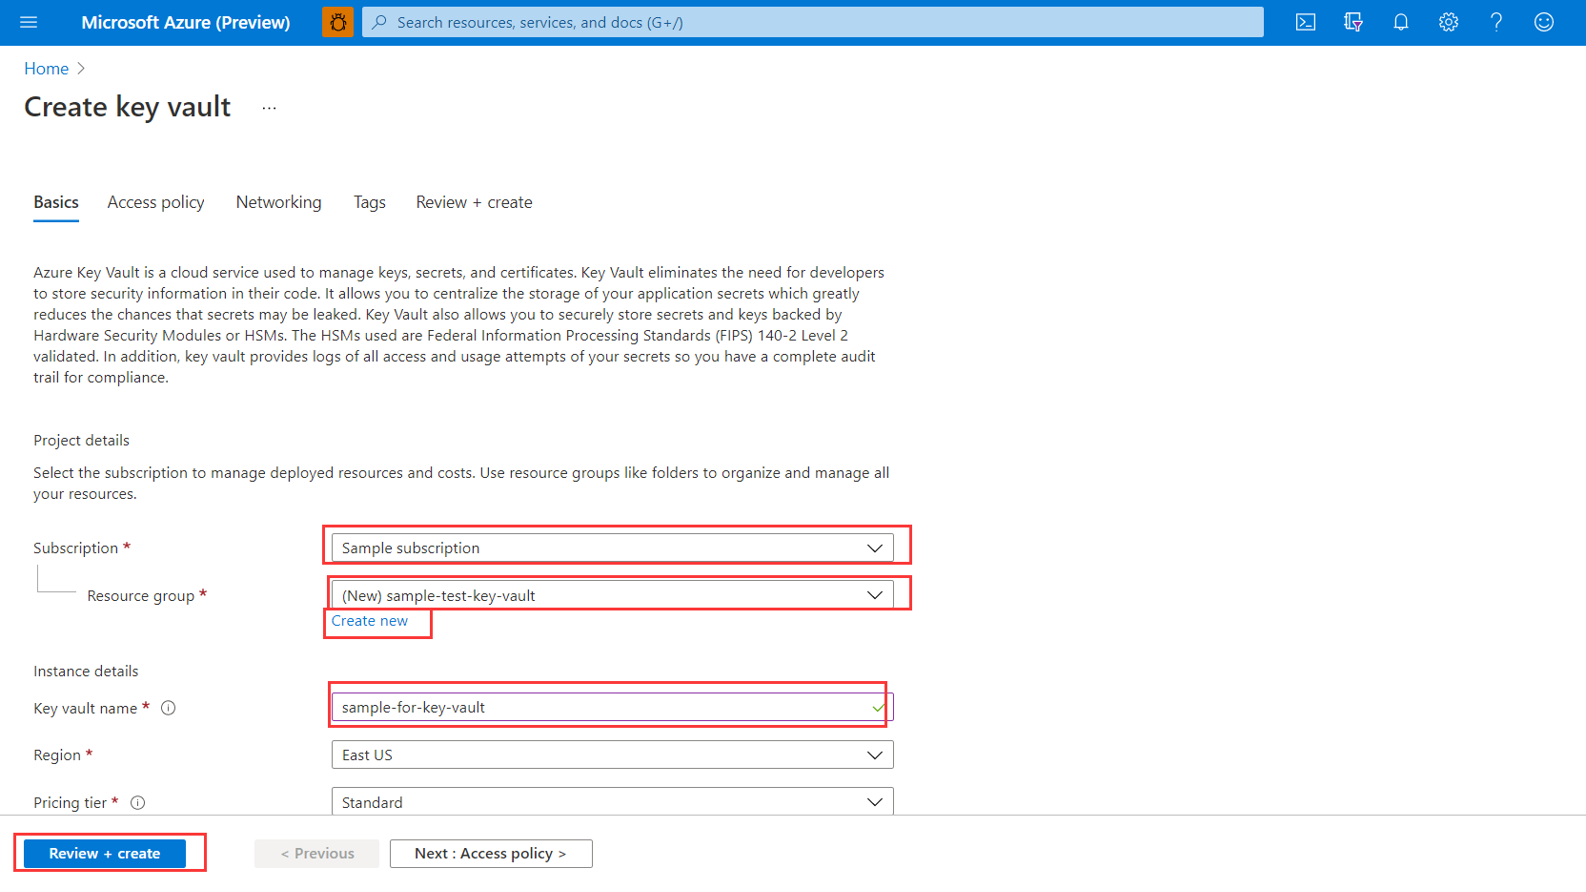
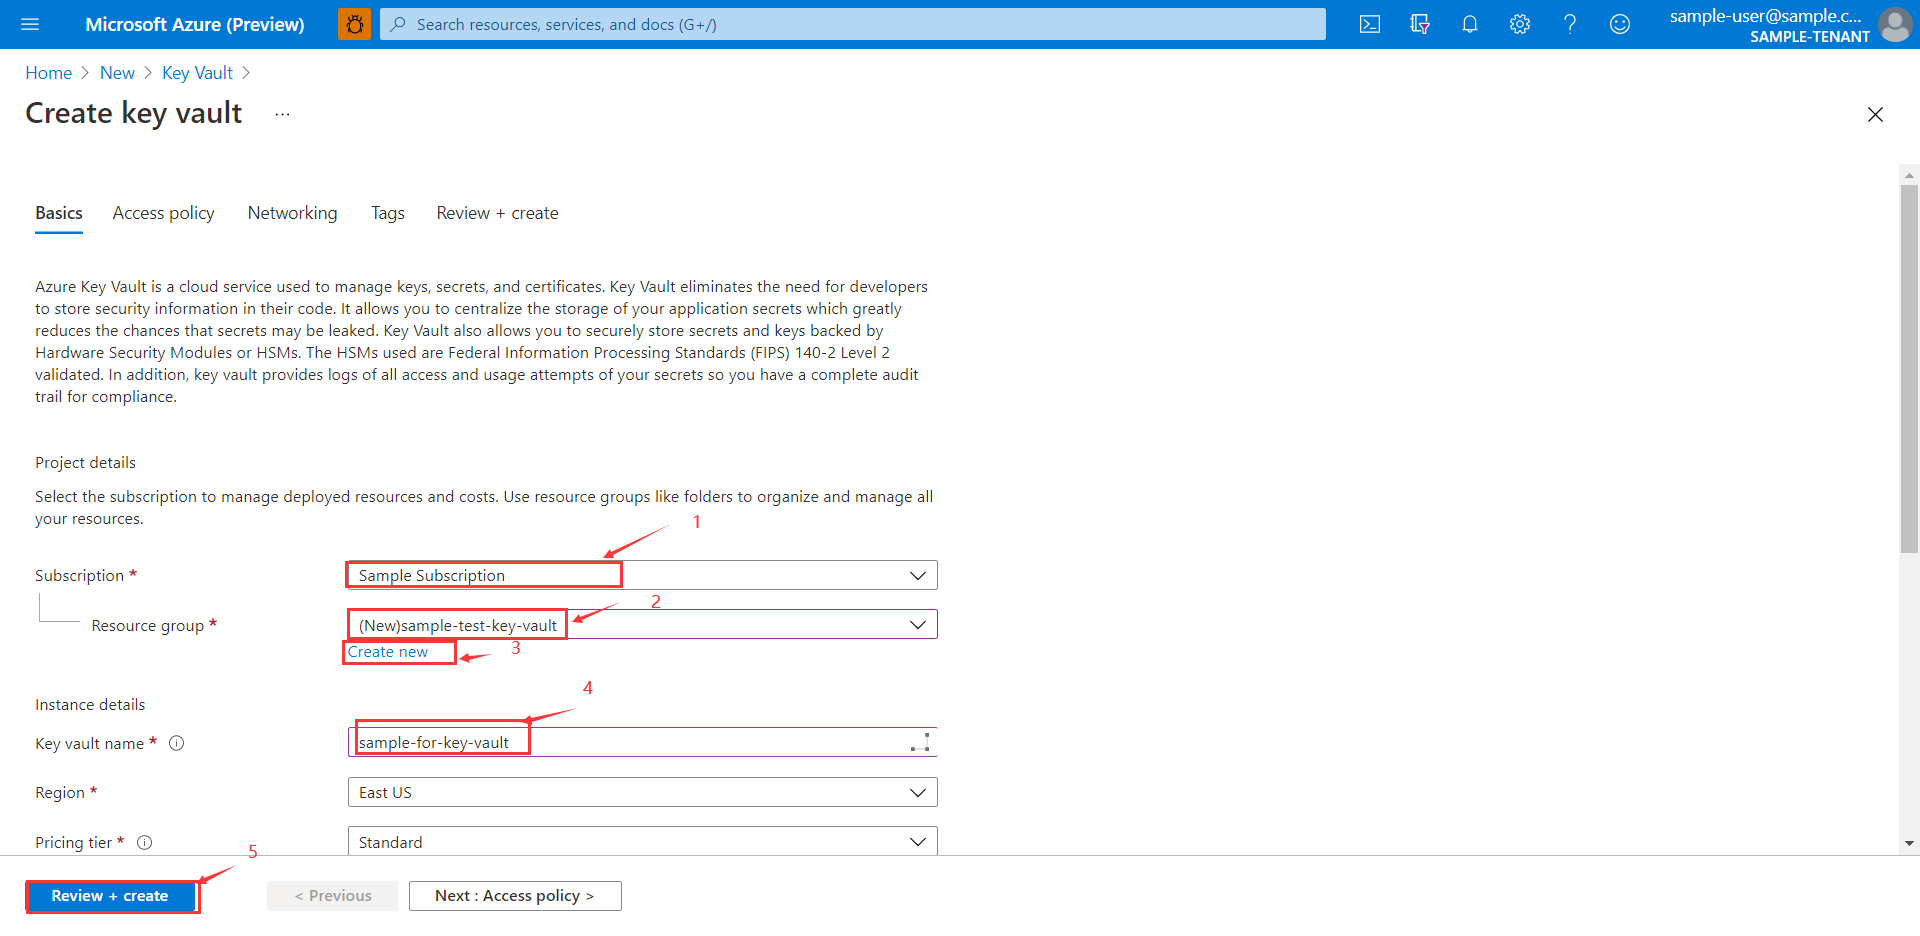
update picture and modify description

diff --git a/sdk/spring/azure-spring-boot-starter-keyvault-certificates/README.md b/sdk/spring/azure-spring-boot-starter-keyvault-certificates/README.md
@@ -24,49 +24,44 @@ Azure Key Vault Certificates Spring Boot Starter is Spring starter for [Azure Ke
 
 1. Log into <https://portal.azure.com>.
 
-2. Select **Create a resource**, then eBrowse to the Azure portal atnter `Key Vault` in `Search the Marketplace` and select `Key vault`.
+1. Click `Create a resource`.
 
-![Find Azure Key Vault Resource 01](resource/find-azure-key-vault-resource-01.png)
+1. Input `Key Vault`.
 
-![Find Azure Key Vault Resource 02](resource/find-azure-key-vault-resource-02.png)
+1. Click `Key Vault`
+    ![Find Azure Key Vault Resource 01](resource/creating-an-azure-key-vault-01.png)
 
-3. Select **Create**.
+    ![Find Azure Key Vault Resource 02](resource/creating-an-azure-key-vault-02.png)
 
-![Create new Key Vault](resource/create-new-key-vault.png)
+1. Click **Create**.
 
-4. On the **Create key vault** page, enter the following information:
+    ![Create new Key Vault](resource/creating-an-azure-key-vault-03.png)
 
-   * Choose the **Subscription** you want to use for your namespace.
-   * Specify whether to create a new **Resource group** for your namespace, or choose an existing resource group.
-   * Enter a unique **Key vault name**, which will become part of the URI for your Vault URI.
-   * Specify the **Region** for your Key vault.
-   * Pricing tier.
-   
-   When you have specified the options listed above, select **Review + Create**, review the specifications and select **Create** to Key vault. The deployment will take several minutes.
+1. On the **Create key vault** page, input `Subscription`, `Resource group`, `Key vault name` and `Pricing tier`, then click `Review + Create`.
 
-![Specify the options](resource/specify-the-options.png)
+    ![Specify the options](resource/specify-the-options.png)
 
-![Create Key Vault resource](resource/create-key-vault-resource.png)
+    ![Create Key Vault resource](resource/create-key-vault-resource.png)
 
-5. When complete, select `Go to resource`.
+1. When complete, click `Go to resource`.
 
-![Go to resource](resource/go-to-resource.png)
+    ![Go to resource](resource/go-to-resource.png)
 
-6. When the page for your app registration appears, copy your **Vault URI**;
+1. When the page for your app registration appears, copy your **Vault URI**;
 
-![Save vault uri](resource/save-vault-uri.png)
+    ![Save vault uri](resource/save-vault-uri.png)
 
-7. Click **Certificates** in the left navigation pane.  Then select **Generate/Import**.
+1. Click **Certificates** in the left navigation pane.  Then click **Generate/Import**.
 
-![Create Certificates](resource/create-certificates.png)
+    ![Create Certificates](resource/create-certificates.png)
 
-8. Enter a **Certificates name**, and enter a **Subject** like `CN=mydomain.com`. then select **create**.
+1. Enter a **Certificates name**, and enter a **Subject** like `CN=mydomain.com`. then click **create**.
 
-![Specify Certificates Info](resource/specify-certificates-info.png)
+    ![Specify Certificates Info](resource/specify-certificates-info.png)
 
-9. After the certificate is successfully created, it takes a while for the status to become `Enabled`. You can select **refresh** to check current status.
+1. After the certificate is successfully created, it takes a while for the status to become `Enabled`. You can click **refresh** to check current status.
 
-![Check Certificates status](resource/check-certificates-status.png)
+    ![Check Certificates status](resource/check-certificates-status.png)
 
 ## Key concepts
 This starter allows you to securely manage and tightly control your certificates by using Azure Key Vault or side-load certificates by supplying them as part of the application.
@@ -76,31 +71,35 @@ This starter allows you to securely manage and tightly control your certificates
 
 #### Using a client ID and client secret
 
-1. Select **Show portal menu**, then **Azure Active Directory**.
+1. Click **Show portal menu**
 
-![Select Azure Active Directory](resource/select-azure-active-directory.png)
+2. Click **Azure Active Directory**.
 
-2. From the portal menu, select **App registrations**, and then select **New registration**.
+    ![Select Azure Active Directory](resource/select-azure-active-directory.png)
 
-![New registration](resource/new-registration.png)
+1. From the portal menu, Click **App registrations**,
 
-3. Specify your application, and then select **Register**.
+1. Click **New registration**.
 
-![Specify application](resource/specify-application.png)
+    ![New registration](resource/new-registration.png)
 
-4. When the page for your app registration appears, copy your **Application ID** and the **Tenant ID**;
+1. Specify your application, and then Click **Register**.
 
-![Get info for app](resource/get-info-for-app.png)
+    ![Specify application](resource/specify-application.png)
 
-5. Click **Certificates & secrets** in the left navigation pane.  Then select **New client secret**.
+1. When the page for your app registration appears, copy your **Application ID** and the **Tenant ID**;
 
-6. Add a **Description** and select duration in the **Expires** list.  Click **Add**. The value for the key will be automatically filled in.
+    ![Get info for app](resource/get-info-for-app.png)
+
+1. Click **Certificates & secrets** in the left navigation pane.  Then click **New client secret**.
+
+1. Add a **Description** and click duration in the **Expires** list.  Click **Add**. The value for the key will be automatically filled in.
    
-![Create secrets](resource/create-secrets.png)
+    ![Create secrets](resource/create-secrets.png)
 
-7. Copy and save the value of the client secret. (You will not be able to retrieve this value later.)
+1. Copy and save the value of the client secret. (You will not be able to retrieve this value later.)
 
-![Copy secrets](resource/copy-secrets.png)
+    ![Copy secrets](resource/copy-secrets.png)
 
 To use the starter for server side SSL, you will need to add the following to
 your `application.properties` (if the application is using Spring Cloud Config 
@@ -120,25 +119,25 @@ keys, secrets and certificates.
 
 Follow the steps below to grant a client with access to Azure Key Vault to access keys, secrets and certificates.
 
-1. Type your key vault name in **Search resources, services, and docs** and select your key vault created before.
+1. Type your key vault name in **Search resources, services, and docs** and click your key vault created before.
 
-![Back to key vault](resource/back-to-key-vault.png)
+    ![Back to key vault](resource/back-to-key-vault.png)
 
-2. Click **Access policies** in the left navigation pane. Then select **Add Access Policy**.
+1. Click **Access policies** in the left navigation pane. Then click **Add Access Policy**.
 
-![Add Access Policy](resource/add-access-policy.png)
+    ![Add Access Policy](resource/add-access-policy.png)
 
-3. Select **Key, Secret, &Certificate Management** as **Configure for template(optional)**. Permissions will be added automatically. 
+1. Select **Key, Secret, &Certificate Management** as **Configure for template(optional)**. Permissions will be added automatically. 
 
-![Select configure](resource/select-configure.png)
+    ![Select configure](resource/select-configure.png)
 
-4. Select **None selected** and choose application created before, click **Select**, then select **Add**.
+1. Click **None selected** and choose application created before, click **Select**, then click **Add**.
 
-![Choose application](resource/choose-application.png)
+    ![Choose application](resource/choose-application.png)
 
-5. Select **Save**.
+1. Click **Save**.
 
-![Save Access Policy](resource/save-access-policy.png)
+    ![Save Access Policy](resource/save-access-policy.png)
 
 #### Using a managed identity
 
